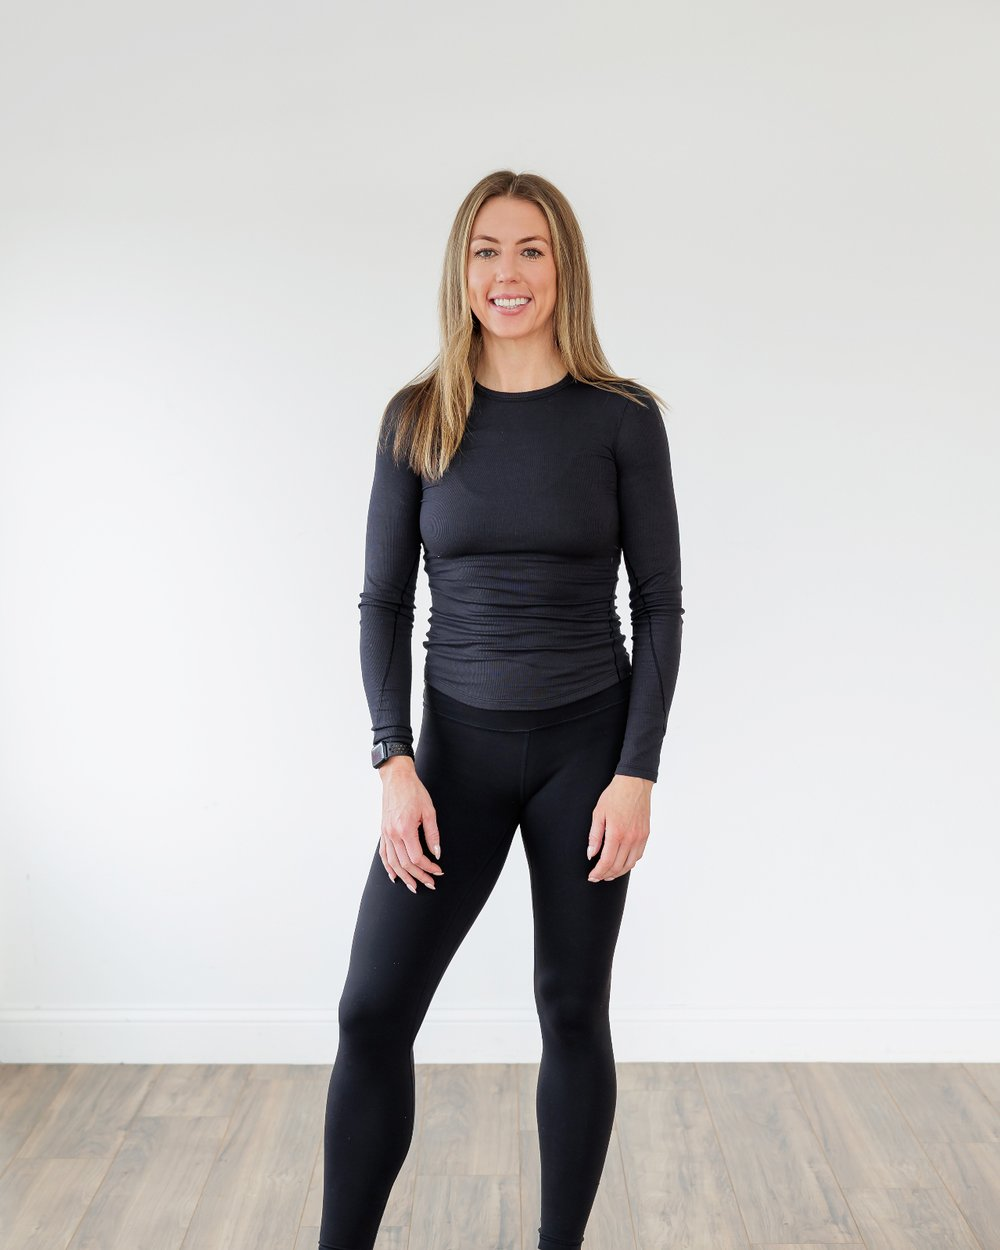
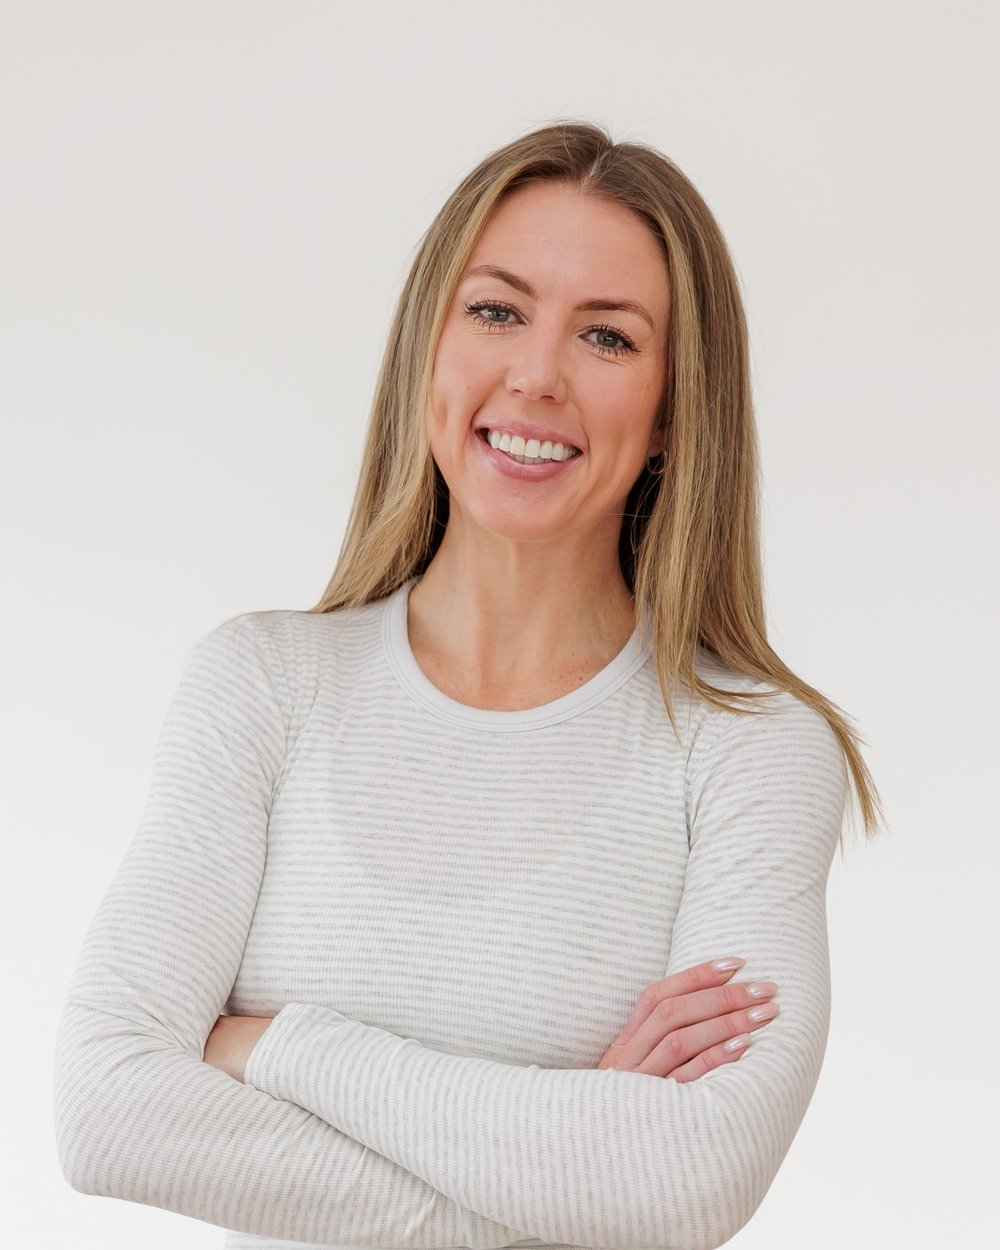
Homepage redesign and copy rewrite (#1)
* Draft homepage rewrite for review

Claude-Session: https://claude.ai/code/session_01Na4E6BjsHcwMZPFBZiYC4m

* Trim About section around 'every problem has a solution'

Claude-Session: https://claude.ai/code/session_01Na4E6BjsHcwMZPFBZiYC4m

* Add motto above hero headline and technical recruiting background

Claude-Session: https://claude.ai/code/session_01Na4E6BjsHcwMZPFBZiYC4m

* Lead with building and teaching; new headshot

Claude-Session: https://claude.ai/code/session_01Na4E6BjsHcwMZPFBZiYC4m

* Design pass: color photo in hero, navy quote band, Fraunces headings

Removes the 'learned this from the inside' and Work sections, which now
repeat the What you get section.

Claude-Session: https://claude.ai/code/session_01Na4E6BjsHcwMZPFBZiYC4m

* Remove quote attribution placeholder; update llms.txt for new page

Claude-Session: https://claude.ai/code/session_01Na4E6BjsHcwMZPFBZiYC4m

---------

diff --git a/src/routes/index.tsx b/src/routes/index.tsx
@@ -222,23 +222,35 @@ const ctaClass =
 
 function Hero() {
   return (
-    <section id="top" className="pt-40 pb-20 md:pt-48 md:pb-28 scroll-mt-24">
-      <div className="mx-auto max-w-5xl px-6">
-        <h1 className="font-serif text-4xl sm:text-5xl md:text-6xl lg:text-7xl font-medium leading-[1.02] text-foreground">
-          Your business runs on you.
-          <br />
-          <span className="text-[color:var(--navy)]">That's </span>
-          <span className="text-[color:var(--navy)] highlight-gold">the problem I fix.</span>
-        </h1>
-        <p className="mt-8 max-w-2xl text-lg md:text-xl text-muted-foreground leading-[1.5]">
-          I help small business owners shape their business around the life they want to live.
-        </p>
-        <div className="mt-10 flex flex-col items-start gap-3">
-          <button type="button" onClick={openCalendlyPopup} className={ctaClass}>
-            Let's talk
-            <ArrowRight size={22} />
-          </button>
-          <p className="text-base text-muted-foreground">15 minutes, no cost, no pitch.</p>
+    <section id="top" className="pt-32 pb-20 md:pt-44 md:pb-28 scroll-mt-24">
+      <div className="mx-auto max-w-6xl px-6 grid md:grid-cols-[1.35fr_1fr] gap-12 md:gap-16 items-center">
+        <div>
+          <SectionLabel>Every problem has a solution</SectionLabel>
+          <h1 className="font-serif text-5xl sm:text-6xl lg:text-7xl font-semibold leading-[1.0] tracking-tight text-foreground">
+            Your business runs on you.
+            <br />
+            <span className="text-[color:var(--navy)]">That's </span>
+            <span className="text-[color:var(--navy)] highlight-gold">the problem I fix.</span>
+          </h1>
+          <p className="mt-8 max-w-xl text-lg md:text-xl text-muted-foreground leading-[1.5]">
+            I help small business owners shape their business around the life they want to live.
+          </p>
+          <div className="mt-10 flex flex-col items-start gap-3">
+            <button type="button" onClick={openCalendlyPopup} className={ctaClass}>
+              Book a 15-minute call
+              <ArrowRight size={22} />
+            </button>
+            <p className="text-base text-muted-foreground">15 minutes, no cost, no pitch.</p>
+          </div>
+        </div>
+        <div className="relative">
+          <div className="absolute -inset-3 md:-inset-4 rounded-[2rem] bg-gold/30 -rotate-2" aria-hidden="true" />
+          <div className="relative aspect-[4/5] overflow-hidden rounded-[1.75rem] bg-muted shadow-[0_30px_60px_-30px_rgba(0,0,0,0.35)]">
+            <img src={laurenHeadshot} alt="Lauren Kasten" className="w-full h-full object-cover" />
+          </div>
+          <p className="relative mt-5 text-sm text-muted-foreground">
+            <span className="text-foreground font-semibold">Lauren Kasten</span> · Teacher, coach, recruiter, builder
+          </p>
         </div>
       </div>
     </section>
@@ -254,71 +266,85 @@ function SectionLabel({ children }: { children: string }) {
   );
 }
 
-function TheQuestion() {
+function Proof() {
   return (
-    <section className="py-24 md:py-36 bg-cream">
+    <section className="py-20 md:py-28 bg-navy text-background">
       <div className="mx-auto max-w-5xl px-6">
-        <SectionLabel>I start with one question</SectionLabel>
-        <p className="font-serif text-3xl md:text-5xl font-medium leading-tight text-foreground max-w-4xl">
-          "What do you want that your business keeps getting in the way of?"
-        </p>
-        <p className="mt-10 text-lg md:text-xl text-muted-foreground leading-[1.5] max-w-3xl">
-          Most people start with the business. I start with you. Once I know what you're after, we look at what's eating your time and build around that.
-        </p>
+        <div className="font-serif text-7xl md:text-8xl leading-none text-[color:var(--gold)]" aria-hidden="true">&ldquo;</div>
+        <blockquote className="-mt-4 font-serif text-3xl md:text-5xl font-medium leading-tight max-w-4xl">
+          You actually listened and genuinely cared to take the time to understand.
+        </blockquote>
       </div>
     </section>
   );
 }
 
-function HowIWork() {
-  const steps = [
-    { title: "Listen", body: "The first conversation is about you, not just the business." },
-    { title: "Fit", body: "Everything gets built around how you actually work and live." },
-    { title: "Teach", body: "You leave able to run it without me." },
-  ];
+function Different() {
   return (
-    <section id="how" className="py-24 md:py-36 bg-paper scroll-mt-24">
-      <div className="mx-auto max-w-6xl px-6">
-        <SectionLabel>How I work</SectionLabel>
-        <div className="mt-6 grid md:grid-cols-3 gap-px bg-border border border-border rounded-2xl overflow-hidden">
-          {steps.map((s) => (
-            <div key={s.title} className="bg-background p-8 md:p-10">
-              <h3 className="font-serif text-3xl md:text-4xl font-medium leading-tight mb-4 text-foreground">{s.title}</h3>
-              <p className="text-base md:text-lg text-muted-foreground leading-[1.5]">{s.body}</p>
-            </div>
-          ))}
+    <section className="py-24 md:py-36 bg-paper">
+      <div className="mx-auto max-w-5xl px-6">
+        <SectionLabel>Consultant, teacher, coach</SectionLabel>
+        <h2 className="text-3xl md:text-5xl font-medium leading-tight text-foreground max-w-3xl">
+          I'm a consultant who teaches.
+        </h2>
+        <div className="mt-10 space-y-6 text-lg md:text-xl text-muted-foreground leading-[1.5] max-w-3xl">
+          <p>
+            I was an elementary teacher, a fitness coach, and a technical recruiter before I ever consulted, and I still work like one. I listen until I understand what you need. Then we build the fix together, and I teach you and your team to run it, so when I step back, you keep going without me.
+          </p>
+          <p className="text-foreground font-medium">
+            I won't recommend a tool I haven't used myself, and I'll tell you the truth even when a yes would be easier.
+          </p>
         </div>
       </div>
     </section>
   );
 }
 
-function Work() {
-  const stories = [
-    {
-      who: "A youth sports company",
-      body: "Everything lived in the owner's head. There were no systems and no processes. I built a dashboard the whole leadership team can use, a new website, and one connected home for their systems, set up so the company can grow into it. Cutting the extra apps and services saved them money.",
-    },
-    {
-      who: "A property services company",
-      body: "The owner was juggling invoicing and proposals across a pile of separate systems, and requests came in by text all day. I built an app that tracks revenue for every service and handles invoicing and proposals, so requests come through the app instead of his phone. I designed the logo too.",
-    },
-    {
-      who: "A childcare director",
-      body: "She wanted to feel her healthiest by her daughter's wedding. Accountability was the piece missing from every health and fitness program she'd tried before. I built her a personal app with a daily check-in and everything she needs in one place. She has checked in every day.",
-    },
-  ];
+function WhoFor() {
   return (
     <section id="work" className="py-24 md:py-36 bg-cream scroll-mt-24">
       <div className="mx-auto max-w-5xl px-6">
-        <SectionLabel>Work</SectionLabel>
-        <div className="mt-6 space-y-px bg-border border border-border rounded-2xl overflow-hidden">
-          {stories.map((s) => (
-            <div key={s.who} className="bg-paper px-8 md:px-10 py-8 md:py-10">
-              <h3 className="text-xl md:text-2xl font-medium leading-tight mb-4 text-foreground">{s.who}</h3>
-              <p className="text-base md:text-lg text-muted-foreground leading-[1.6] max-w-3xl">{s.body}</p>
+        <SectionLabel>What you get</SectionLabel>
+        <h2 className="text-3xl md:text-5xl font-medium leading-tight text-foreground max-w-3xl">
+          Most consultants hand you a plan. I build the thing, then teach you to run it.
+        </h2>
+        <div className="mt-10 space-y-6 text-lg md:text-xl text-muted-foreground leading-[1.5] max-w-3xl">
+          <p>
+            For a property services owner, that was an app that handles invoicing, proposals, and the requests that used to come in by text all day. For Mini Me Sports, it was a dashboard the leadership team uses and a new website. For a childcare director, it was a personal app she has checked into every day.
+          </p>
+          <p>
+            Salons, realtors, therapists, attorneys, donut shops. If every sale, hire, and question still runs through you, the industry doesn't matter. We find what's really stuck in your business and fix it together.
+          </p>
+        </div>
+      </div>
+    </section>
+  );
+}
+
+function NextSteps() {
+  const steps = [
+    { title: "A 15-minute call", body: "You tell me what's going on. No pitch." },
+    { title: "A discovery meeting", body: "I learn how the business really runs and what you want from it." },
+    { title: "A proposal", body: "A clear plan: what I'll do, what it costs, and how long it takes." },
+  ];
+  return (
+    <section id="how" className="py-24 md:py-36 bg-paper scroll-mt-24">
+      <div className="mx-auto max-w-6xl px-6">
+        <SectionLabel>What happens next</SectionLabel>
+        <div className="mt-6 grid md:grid-cols-3 gap-px bg-border border border-border rounded-2xl overflow-hidden">
+          {steps.map((s, i) => (
+            <div key={s.title} className="bg-background p-8 md:p-10">
+              <div className="font-sans text-4xl text-[color:var(--gold)] mb-5 tabular-nums">{String(i + 1).padStart(2, "0")}</div>
+              <h3 className="font-serif text-2xl md:text-3xl font-medium leading-tight mb-3 text-foreground">{s.title}</h3>
+              <p className="text-base md:text-lg text-muted-foreground leading-[1.5]">{s.body}</p>
             </div>
           ))}
+        </div>
+        <div className="mt-12">
+          <button type="button" onClick={openCalendlyPopup} className={ctaClass}>
+            Book your 15-minute call
+            <ArrowRight size={22} />
+          </button>
         </div>
       </div>
     </section>
@@ -328,31 +354,18 @@ function Work() {
 function About() {
   return (
     <section id="about" className="py-24 md:py-36 bg-paper scroll-mt-24">
-      <div className="mx-auto max-w-6xl px-6 grid md:grid-cols-[1fr_1.4fr] gap-12 md:gap-20 items-start">
-        <div className="md:sticky md:top-28">
-          <div className="aspect-[4/5] overflow-hidden rounded-sm bg-muted shadow-[0_30px_60px_-30px_rgba(0,0,0,0.25)]">
-            <img
-              src={laurenHeadshot}
-              alt="Lauren Kasten"
-              className="w-full h-full object-cover"
-              loading="lazy"
-            />
-          </div>
-          <p className="mt-5 text-sm text-muted-foreground">
-            <span className="text-foreground font-medium">Lauren Kasten</span>
-          </p>
-        </div>
+      <div className="mx-auto max-w-5xl px-6">
         <div>
-          <SectionLabel>I never left teaching</SectionLabel>
-          <div className="space-y-8 text-lg md:text-xl leading-[1.5] text-foreground">
+          <SectionLabel>What I believe</SectionLabel>
+          <h2 className="text-3xl md:text-5xl font-medium leading-tight text-foreground">
+            Every problem has a solution.
+          </h2>
+          <div className="mt-8 space-y-8 text-lg md:text-xl leading-[1.5] text-foreground">
             <p>
-              I got my master's thinking I'd spend my career as an elementary teacher. That's not how it went. The next 11 years zigzagged: teaching, then coaching and managing in fitness, back to teaching, then corporate recruiting.
+              It's one of the beliefs I've lived by since becoming an entrepreneur. I keep listening until I find the real fix, and I don't stop at a band-aid.
             </p>
             <p>
-              The same thing kept happening in every job. Fly Feet members asked me to coach them one on one on their health and nutrition. Candidates told me they loved working with me because I listened, and the jobs I brought them fit what they wanted. I was teaching, and I was building trust.
-            </p>
-            <p>
-              Now I do it with small business owners. I see people working around the clock with apps and tools scattered everywhere, none of it set up for how they work. There's a better way. I help you find it, build it, and run it without me.
+              People have trusted me with their problems in every job I've had. Fly Feet members asked me to coach them one on one on their health and nutrition. Candidates told me they loved working with me because I listened, and the jobs I brought them fit what they wanted.
             </p>
             <p className="font-medium">
               I work with owners who are great at what they do and tired of carrying all of it alone.
@@ -644,9 +657,10 @@ function Index() {
       <Nav />
       <main className="flex flex-col gap-6 md:gap-8">
         <Hero />
-        <TheQuestion />
-        <HowIWork />
-        <Work />
+        <Proof />
+        <Different />
+        <WhoFor />
+        <NextSteps />
         <About />
         <Contact />
       </main>

diff --git a/src/routes/__root.tsx b/src/routes/__root.tsx
@@ -93,7 +93,7 @@ export const Route = createRootRouteWithContext<{ queryClient: QueryClient }>()(
       { rel: "stylesheet", href: "https://assets.calendly.com/assets/external/widget.css" },
       { rel: "preconnect", href: "https://fonts.googleapis.com" },
       { rel: "preconnect", href: "https://fonts.gstatic.com", crossOrigin: "anonymous" },
-      { rel: "stylesheet", href: "https://fonts.googleapis.com/css2?family=Inter:wght@300;400;500;600&family=Source+Serif+4:opsz,wght@8..60,400..600&display=swap" },
+      { rel: "stylesheet", href: "https://fonts.googleapis.com/css2?family=Inter:wght@300;400;500;600&family=Fraunces:opsz,wght@9..144,400..700&display=swap" },
     ],
     scripts: [
       {

diff --git a/src/styles.css b/src/styles.css
@@ -37,7 +37,7 @@
   --color-paper: var(--paper);
 
 
-  --font-serif: "Source Serif 4", Georgia, serif;
+  --font-serif: "Fraunces", Georgia, serif;
   --font-sans: "Inter", system-ui, sans-serif;
 }
 
